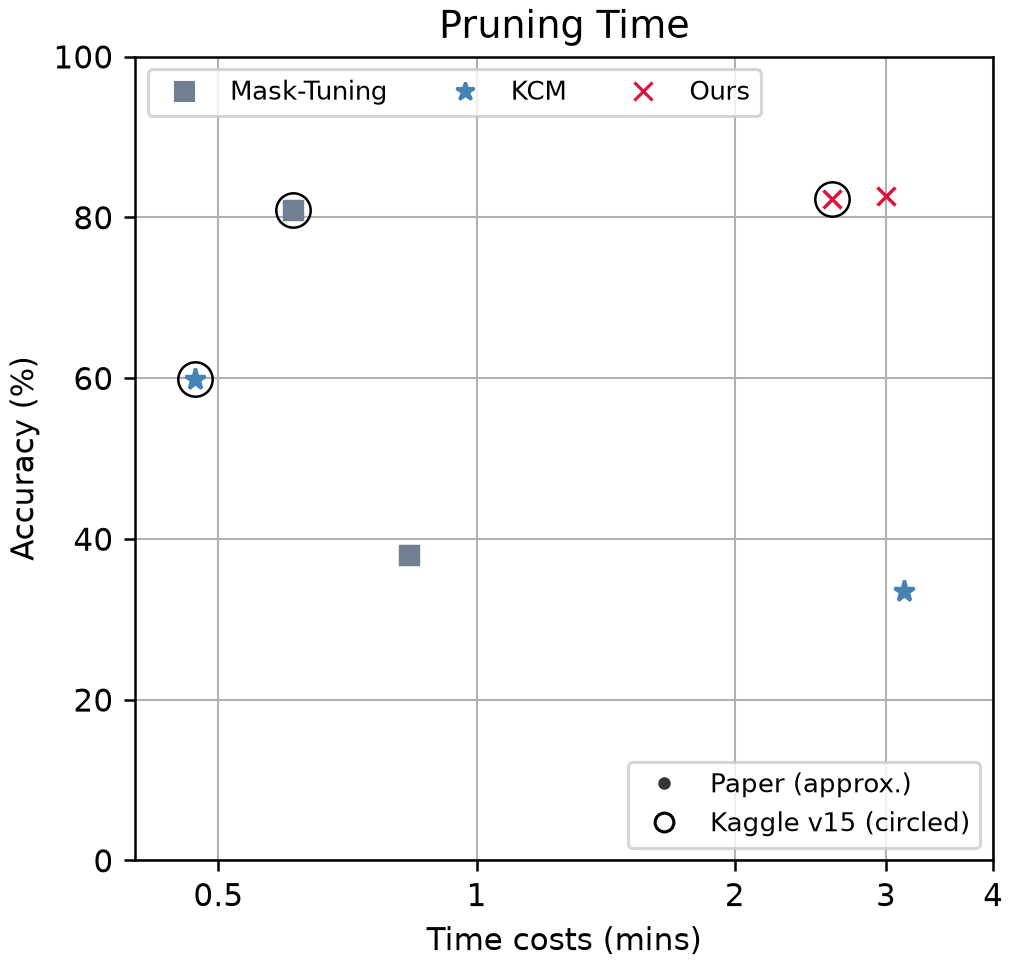
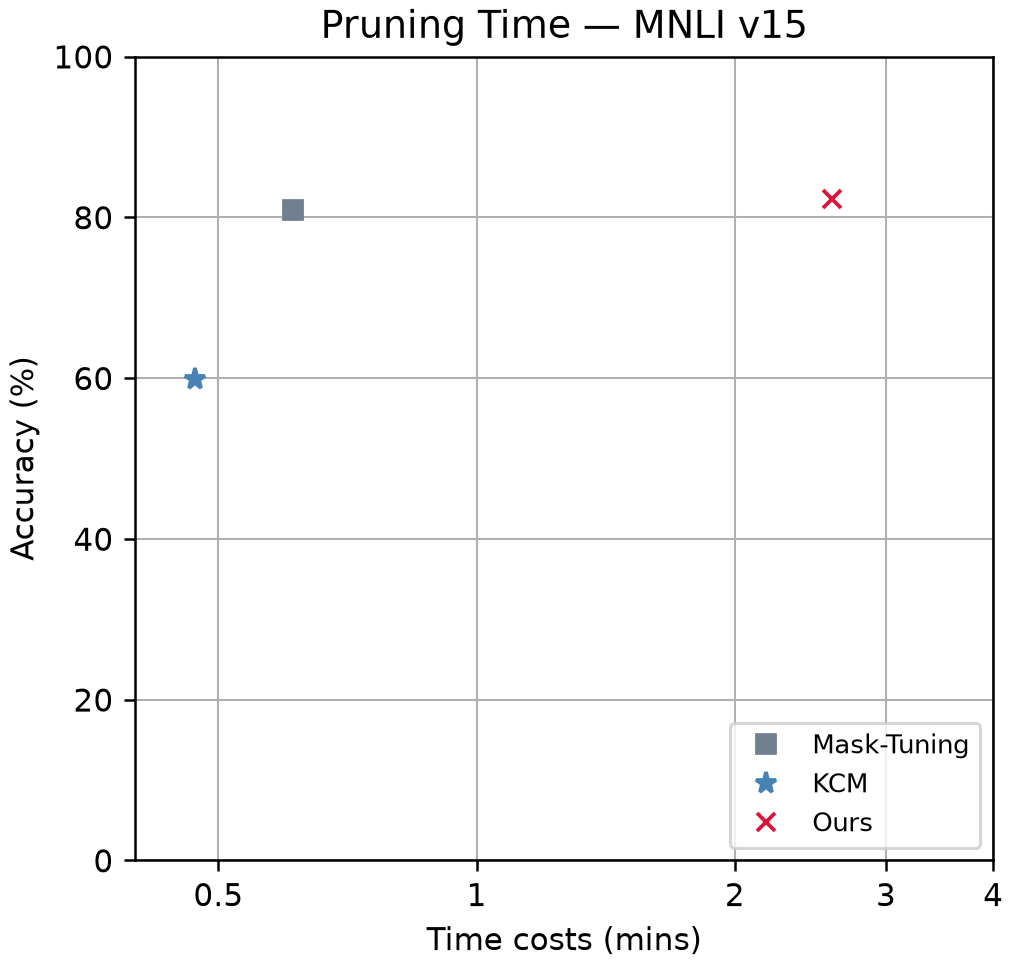
Show only Kaggle v15 results in Figure 4 plot

diff --git a/README.md b/README.md
@@ -43,9 +43,9 @@ Báo cáo gốc gồm [lần chạy ban đầu có MRPC và SST-2](experiments/t
 
 ## Thực nghiệm Figure 4: thời gian pruning trên MNLI
 
-![Accuracy theo thời gian pruning trên MNLI ở khoảng 60% FLOPs. So sánh Ours, KCM và Mask-Tuning giữa bài báo và Kaggle v15.](experiments/figure4/figure4_pruning_time_v15.png)
+![Accuracy theo thời gian pruning cho Ours, KCM và Mask-Tuning trên MNLI trong lần chạy Kaggle v15.](experiments/figure4/figure4_pruning_time_v15.png)
 
-Biểu đồ tái hiện ô bên trái của Figure 4 ở mức khoảng 60% FLOPs. Trục ngang biểu diễn thời gian pruning theo thang log và trục dọc biểu diễn accuracy MNLI matched. Trong lần chạy full v15 trên Tesla T4 với seed `3407`, Ours đạt **82,26% accuracy** sau **2,60 phút pruning** và giữ **59,62% FLOPs**. Điểm tương ứng đọc từ đồ thị của bài báo trên RTX 3090 là khoảng **82,65%** và **3,00 phút**. Các điểm KCM và Mask-Tuning cũng được hiển thị để đối chiếu. [Figure 4 của paper](https://aclanthology.org/2024.lrec-main.1162.pdf#page=7) · [Kết quả MNLI v15 trên Kaggle](https://www.kaggle.com/code/cymeu4l0t/p-pruning-figure-4-mnli?scriptVersionId=372172179)
+Biểu đồ thể hiện accuracy trên MNLI matched theo thời gian pruning (thang log) ở mức khoảng 60% FLOPs. Lần chạy full v15 dùng Tesla T4 và seed `3407`. Ours đạt **82,26% accuracy** sau **2,60 phút pruning** và giữ **59,62% FLOPs**. [Kết quả MNLI v15 trên Kaggle](https://www.kaggle.com/code/cymeu4l0t/p-pruning-figure-4-mnli?scriptVersionId=372172179)
 
 ## Chạy pruning và fine-tuning thủ công
 
